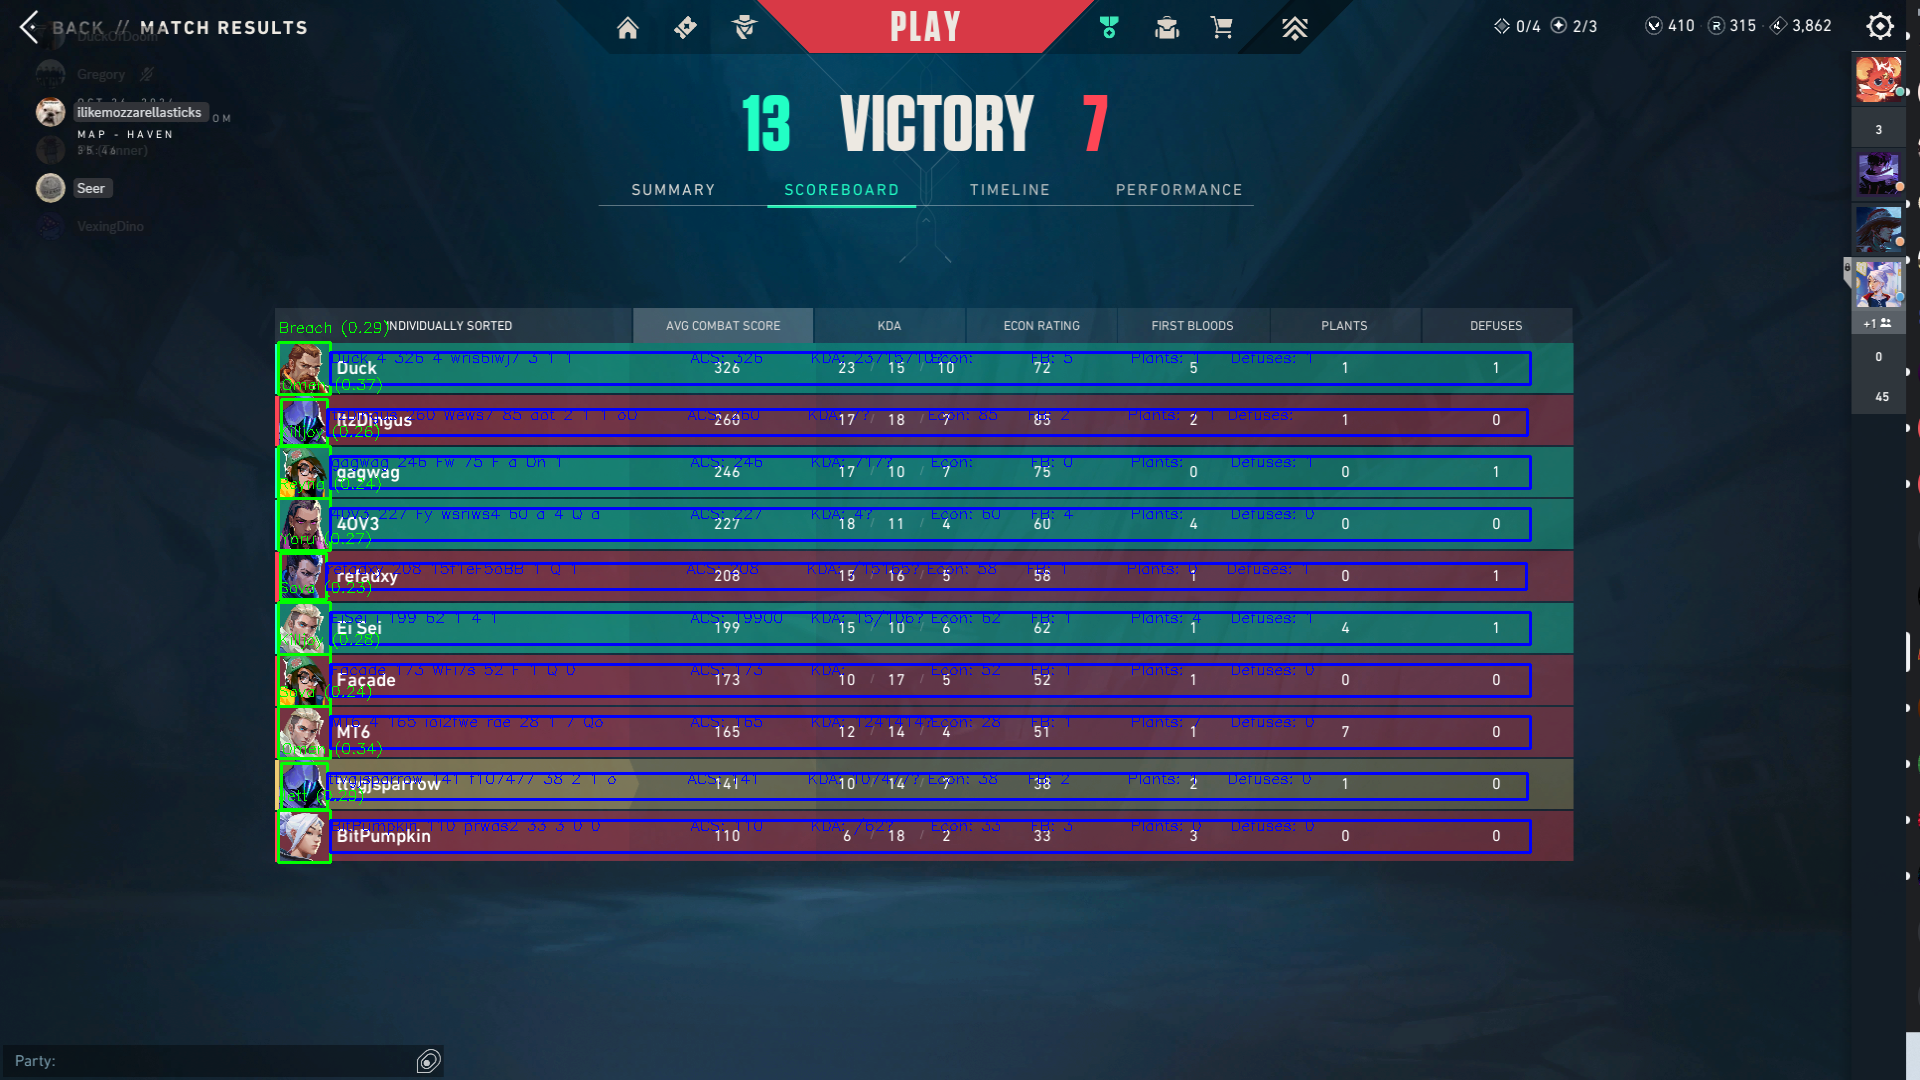
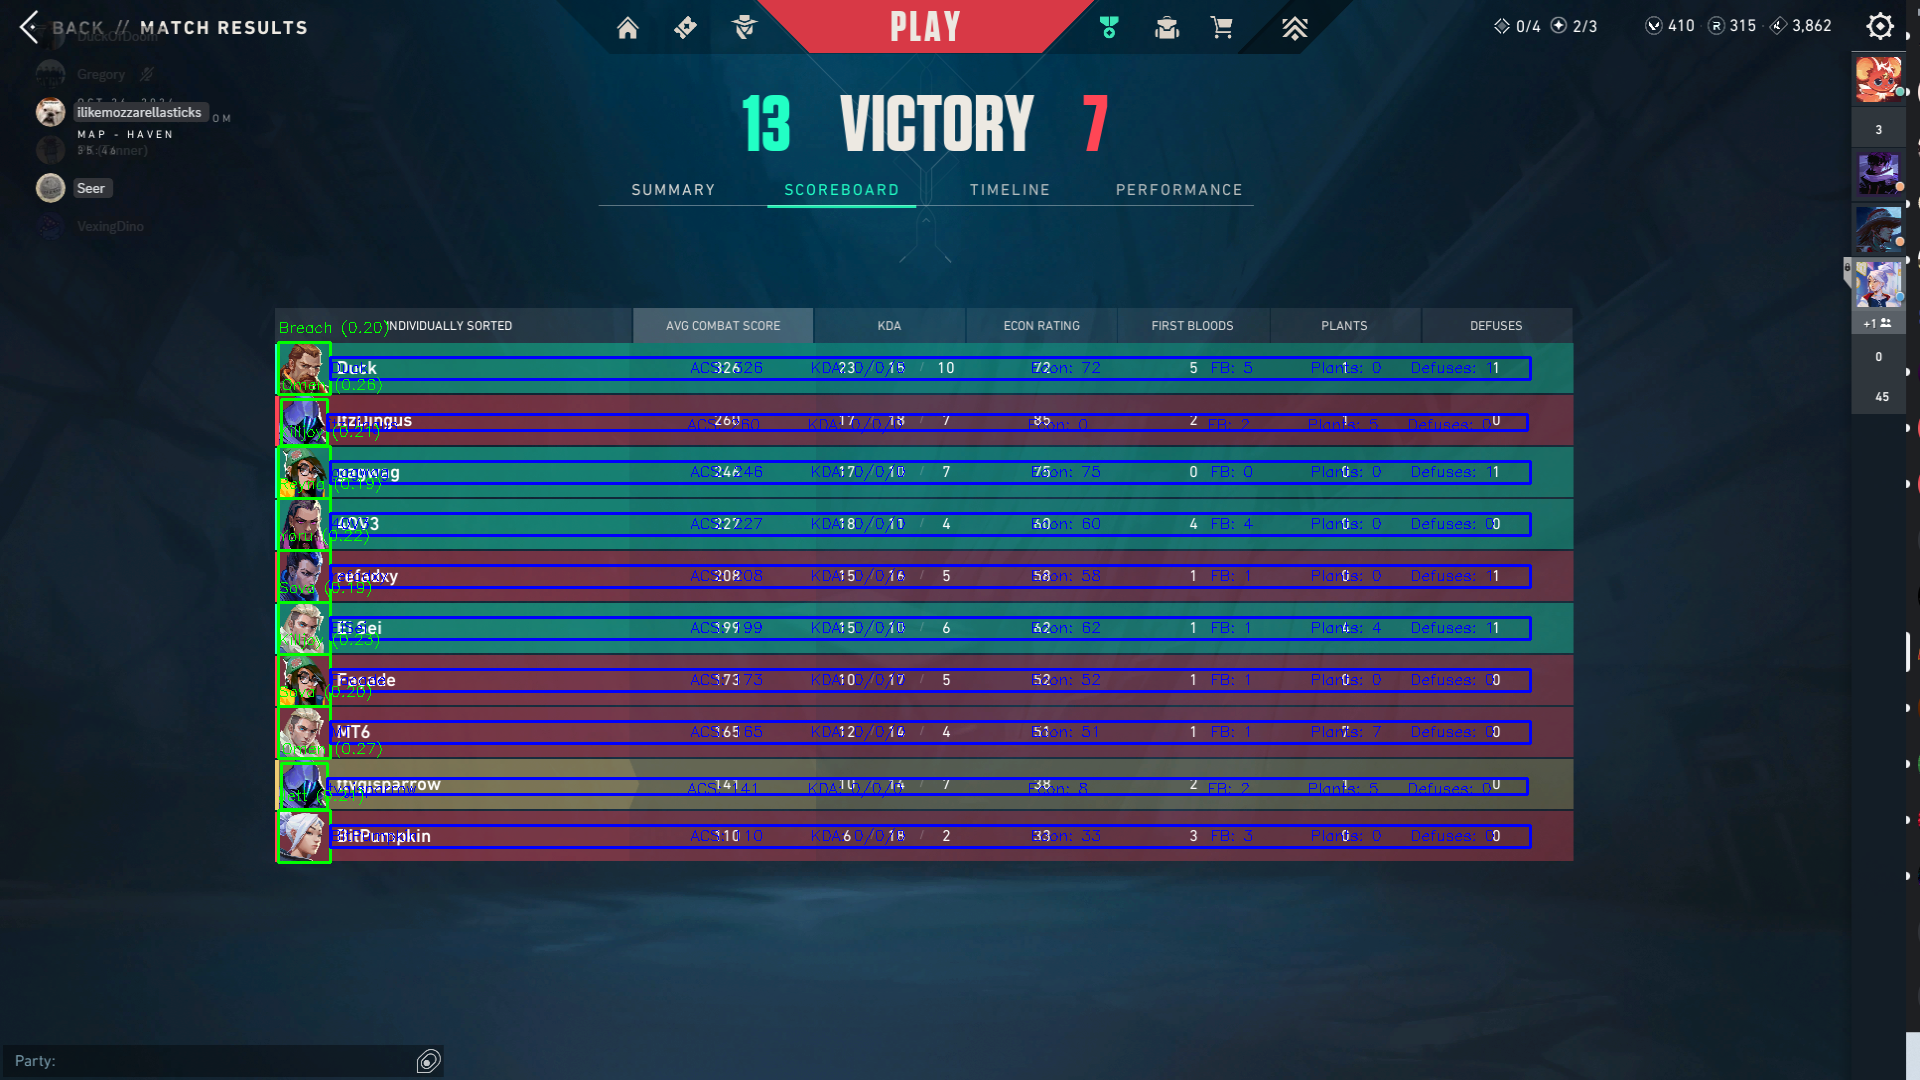
Tuning Val OCR

Changed region(s): [[0.1562, 0.3056, 0.8125, 0.7944]]

diff --git a/Valorant/ValMatch/IconLoop.py b/Valorant/ValMatch/IconLoop.py
@@ -1,14 +1,24 @@
 import cv2 as cv
 import numpy as np
+from collections import defaultdict
+import re
 import pytesseract
 
+
+#UPLOAD REQUIREMENTS:
+#1. 1920 x 1080 resolution
+#2. 16:9 aspect ratio
+#3. No overlays (Discord, Outplayed, etc.)
+#4. Winning Team is responisble for uploading screenshots
+#5. If abnormal data is detected (e.g. 0 ACS, 0/0/0 KDA, 0 Econ Rating), uploader will be required to verify the data
 
 pytesseract.pytesseract.tesseract_cmd = r'C:\Program Files\Tesseract-OCR\tesseract.exe'
 
 
 #Load screenshot
 for i in range(8):
-    players = {}
+    #                              ACS,   KDA,  Econ, FB,   P,   D
+    players = defaultdict(lambda: ('0', '0/0/0', '0', '0', '0', '0'))
     img_rgb = cv.imread(f'Valorant/Scoreboards/{i}.png')
 
     img_rgb = cv.resize(img_rgb, (1920, 1080))
@@ -43,7 +53,7 @@ for i in range(8):
     detections = []
 
     #Preprocess ROI
-    roi_gray = cv.GaussianBlur(roi_gray, (5, 5), 0)
+    #roi_gray = cv.GaussianBlur(roi_gray, (5, 5), 0)
     roi_gray = cv.Canny(roi_gray, 50, 150)
 
     #Perform template matching for each agent
@@ -154,6 +164,12 @@ for i in range(8):
         continue
     img_result = img_rgb.copy()
     final_detections = sorted(final_detections, key=lambda x: x[2][1])
+    #cv.imshow(f'OCR MAP NAME', img_map)
+    #cv.waitKey(0)
+    ocr_map = pytesseract.image_to_string(img_map, config='--psm 7 -c tessedit_char_whitelist=ABCDEFGHIJKLMNOPQRSTUVWXYZ')
+    print(f"Map: {ocr_map.strip()}")
+    
+
     for score, agent, top_left, (w, h) in final_detections:
         bottom_right = (top_left[0] + w, top_left[1] + h)
         cv.rectangle(img_result, top_left, bottom_right, (0, 255, 0), 2)
@@ -163,9 +179,9 @@ for i in range(8):
 
         #Define ROI for OCR
         strip_x = top_left[0] + w
-        strip_y = top_left[1] + 10
+        strip_y = top_left[1] + 15
         strip_w = 1200
-        strip_h = h - 20
+        strip_h = h - 30
         strip = img_rgb[strip_y:strip_y + strip_h, strip_x:strip_x + strip_w]
         #cv.imshow(f'OCR ROI {agent}', strip)
         #cv.waitKey(0)
@@ -177,7 +193,7 @@ for i in range(8):
         255,
         cv.ADAPTIVE_THRESH_MEAN_C, 
         cv.THRESH_BINARY, 
-        15, 
+        3, 
         -2
     )
         #strip_gray = cv.GaussianBlur(strip_gray, (5, 5), 0)
@@ -187,58 +203,97 @@ for i in range(8):
 
         strip_name = strip_gray[:, :200]
         strip_stats = strip_gray[:, 300:]
-        strip_acs = strip_stats[:, :180]
-        strip_kda = strip_stats[:, 180:360]
-        strip_econ = strip_stats[:, 360:540]
-        strip_fb = strip_stats[:, 540:620]
-        strip_p = strip_stats[:, 620:800]
-        strip_d = strip_stats[:, 800:]
+        strip_acs = strip_stats[:, 70:130]
+        strip_kda = strip_stats[:, 200:370]
+        strip_econ = strip_stats[:, 380:500]
+        strip_fb = strip_stats[:, 560:620]
+        strip_p = strip_stats[:, 700:780]
+        strip_d = strip_stats[:, 780:]
 
-        #cv.imshow(f'OCR MAP NAME', img_map)
-        #cv.waitKey(0)
-
-        #cv.imshow(f'OCR ROI NAME {agent}', strip_name)
-        #cv.waitKey(0)
+        strips = [strip_acs, strip_kda, strip_econ, strip_fb, strip_p, strip_d]
 
         #cv.imshow(f'OCR ROI ACS {agent}', strip_acs)
         #cv.waitKey(0)
+        #cv.imshow(f'OCR ROI {agent}', s)
+        for s in strips:
+            s = cv.resize(s, None, fx=10, fy=10, interpolation=cv.INTER_LINEAR)
+            s = cv.adaptiveThreshold(
+            s, 
+            255,
+            cv.ADAPTIVE_THRESH_MEAN_C, 
+            cv.THRESH_BINARY, 
+            11, 
+            -2
+    )   
+            s = cv.Canny(s, 50, 150)
 
-        #cv.imshow(f'OCR ROI KDA {agent}', strip_kda)
-        #cv.waitKey(0)
+        if False: #i == 0:
+            cv.imshow(f'OCR ROI NAME {agent}', strip_name)
+            cv.waitKey(0)
 
-        #cv.imshow(f'OCR ROI Econ {agent}', strip_econ)
-        #cv.waitKey(0)
+            cv.imshow(f'OCR ROI ACS {agent}', strip_acs)
+            cv.waitKey(0)
 
-        #cv.imshow(f'OCR ROI FB {agent}', strip_fb)
-        #cv.waitKey(0)
-        
-        #cv.imshow(f'OCR ROI P {agent}', strip_p)
-        #cv.waitKey(0)
+            cv.imshow(f'OCR ROI KDA {agent}', strip_kda)
+            cv.waitKey(0)
 
-        #cv.imshow(f'OCR ROI D {agent}', strip_d)
-        #cv.waitKey(0)
+            cv.imshow(f'OCR ROI Econ {agent}', strip_econ)
+            cv.waitKey(0)
 
+            cv.imshow(f'OCR ROI FB {agent}', strip_fb)
+            cv.waitKey(0)
+            
+            cv.imshow(f'OCR ROI P {agent}', strip_p)
+            cv.waitKey(0)
 
-        ocr_map = pytesseract.image_to_string(img_map, config='--psm 7 -c tessedit_char_whitelist=ABCDEFGHIJKLMNOPQRSTUVWXYZ')
-        ocr_name = pytesseract.image_to_string(strip_gray, config='--psm 7 -c tessedit_char_whitelist="abcdefghijklmnopqrstuvwxyzABCDEFGHIJKLMNOPQRSTUVWXYZ01234456789"')
-        ocr_acs = pytesseract.image_to_string(strip_acs, config='--psm 7 -c tessedit_char_whitelist=0123456789')
-        ocr_kda = pytesseract.image_to_string(strip_kda, config='--psm 7 -c tessedit_char_whitelist=0123456789/')
-        ocr_econ = pytesseract.image_to_string(strip_econ, config='--psm 7 -c tessedit_char_whitelist=0123456789')
-        ocr_fb = pytesseract.image_to_string(strip_fb, config='--psm 7 -c tessedit_char_whitelist=0123456789')
-        ocr_p = pytesseract.image_to_string(strip_p, config='--psm 7 -c tessedit_char_whitelist=0123456789')
-        ocr_d = pytesseract.image_to_string(strip_d, config='--psm 7 -c tessedit_char_whitelist=0123456789')
-        print(f"Map: {ocr_map.strip()}")
+            cv.imshow(f'OCR ROI D {agent}', strip_d)
+            cv.waitKey(0)
+        #Set OCR configurations
+        config0 = '--psm 7 -c tessedit_char_whitelist=abcdefghijklmnopqrstuvwxyzABCDEFGHIJKLMNOPQRSTUVWXYZ01234456789'
+        config1 = '--psm 7 -c tessedit_char_whitelist=0123456789'
+        config2 = '--psm 7 -c tessedit_char_whitelist=0123456789/'
+
+        #Perform OCR
+        ocr_name = pytesseract.image_to_string(strip_gray, config=config0)
+        ocr_acs = pytesseract.image_to_string(strip_acs, config=config1)
+        ocr_kda = pytesseract.image_to_string(strip_kda, config=config2)
+        ocr_econ = pytesseract.image_to_string(strip_econ, config=config1)
+        ocr_fb = pytesseract.image_to_string(strip_fb, config=config1)
+        ocr_p = pytesseract.image_to_string(strip_p, config=config1)
+        ocr_d = pytesseract.image_to_string(strip_d, config=config1)
         print(f"OCR Stats for {ocr_name.split(' ')[0]} on {agent}: {ocr_acs.strip()}, {ocr_kda.strip()}, {ocr_econ.strip()}, {ocr_fb.strip()}, {ocr_p.strip()}, {ocr_d.strip()}")
-        players[ocr_name.strip()] = ocr_acs.strip(), ocr_kda, ocr_econ.split('/'), ocr_fb.strip(), ocr_p.strip(), ocr_d.strip()
+        #Update player stats, using 0 if not found
+        current_acs, current_kda, current_econ, current_fb, current_p, current_d = players[ocr_name.split(' ')[0]]
+        if ocr_acs.strip():
+            current_acs = ocr_acs.strip()
 
+        #Fix KDA Formatting using regex
+        #TODO: MAKE OCR MORE ACCURATE BEFORE FORCING THIS CHECK
+        kda_matches = re.match(r'^(\d{1,2})/(\d{1,2})/(\d{1,2})$', ocr_kda.strip())
+        if kda_matches:
+            current_kda = ocr_kda.strip()
+        else:
+            current_kda = '0/0/0'
+        if ocr_econ.strip():
+            current_econ = ocr_econ.strip()
+        if ocr_fb.strip():
+            current_fb = ocr_fb.strip()
+        if ocr_p.strip():
+            current_p = ocr_p.strip()
+        if ocr_d.strip():
+            current_d = ocr_d.strip()
+        players[ocr_name.split(' ')[0]] = current_acs, current_kda, current_econ.split('/'), current_fb, current_p, current_d
+
+
+        #Draw rectangles and text on the result image
         cv.rectangle(img_result, (strip_x, strip_y), (strip_x + strip_w, strip_y + strip_h), (255, 0, 0), 2)
-        cv.putText(img_result, f'{ocr_name.strip()}', (strip_x, strip_y + 10), cv.FONT_HERSHEY_SIMPLEX, 0.5, (255, 0, 0), 1)
-        cv.putText(img_result, f'ACS: {ocr_acs.strip()}', (strip_x + 360, strip_y+ 10), cv.FONT_HERSHEY_SIMPLEX, 0.5, (255, 0, 0), 1)
-        cv.putText(img_result, f'KDA: {ocr_kda}', (strip_x + 480, strip_y+ 10), cv.FONT_HERSHEY_SIMPLEX, 0.5, (255, 0, 0), 1)
-        cv.putText(img_result, f'Econ: {ocr_econ.strip()}', (strip_x + 600, strip_y+ 10), cv.FONT_HERSHEY_SIMPLEX, 0.5, (255, 0, 0), 1)
-        cv.putText(img_result, f'FB: {ocr_fb.strip()}', (strip_x + 700, strip_y+ 10), cv.FONT_HERSHEY_SIMPLEX, 0.5, (255, 0, 0), 1)
-        cv.putText(img_result, f'Plants: {ocr_p.strip()}', (strip_x + 800, strip_y+ 10), cv.FONT_HERSHEY_SIMPLEX, 0.5, (255, 0, 0), 1)
-        cv.putText(img_result, f'Defuses: {ocr_d.strip()}', (strip_x + 900, strip_y+ 10), cv.FONT_HERSHEY_SIMPLEX, 0.5, (255, 0, 0), 1)
+        cv.putText(img_result, f'{ocr_name.split(' ')[0]}', (strip_x, strip_y + 15), cv.FONT_HERSHEY_SIMPLEX, 0.5, (255, 0, 0), 1)
+        cv.putText(img_result, f'ACS: {current_acs}', (strip_x + 360, strip_y+ 15), cv.FONT_HERSHEY_SIMPLEX, 0.5, (255, 0, 0), 1)
+        cv.putText(img_result, f'KDA: {current_kda}', (strip_x + 480, strip_y+ 15), cv.FONT_HERSHEY_SIMPLEX, 0.5, (255, 0, 0), 1)
+        cv.putText(img_result, f'Econ: {current_econ.strip()}', (strip_x + 700, strip_y+ 15), cv.FONT_HERSHEY_SIMPLEX, 0.5, (255, 0, 0), 1)
+        cv.putText(img_result, f'FB: {current_fb.strip()}', (strip_x + 880, strip_y+ 15), cv.FONT_HERSHEY_SIMPLEX, 0.5, (255, 0, 0), 1)
+        cv.putText(img_result, f'Plants: {current_p.strip()}', (strip_x + 980, strip_y+ 15), cv.FONT_HERSHEY_SIMPLEX, 0.5, (255, 0, 0), 1)
+        cv.putText(img_result, f'Defuses: {current_d.strip()}', (strip_x + 1080, strip_y+ 15), cv.FONT_HERSHEY_SIMPLEX, 0.5, (255, 0, 0), 1)
 
 
     #Save result
@@ -251,6 +306,6 @@ for i in range(8):
     #Print results
     print(f"Top 10 detections for scoreboard {i}:")
     for i, (score, agent, top_left, _) in enumerate(final_detections, 1):
-        print(f"{i}. Agent: {agent}, Score: {score:.2f}, Location: {top_left[0], top_left[1]}")
+        print(f"{i}. Agent: {agent}, Score: {score:.2f}, Location: {int(top_left[0]), int(top_left[1])}")
 
     print(f"Result saved to: {output_path}")
